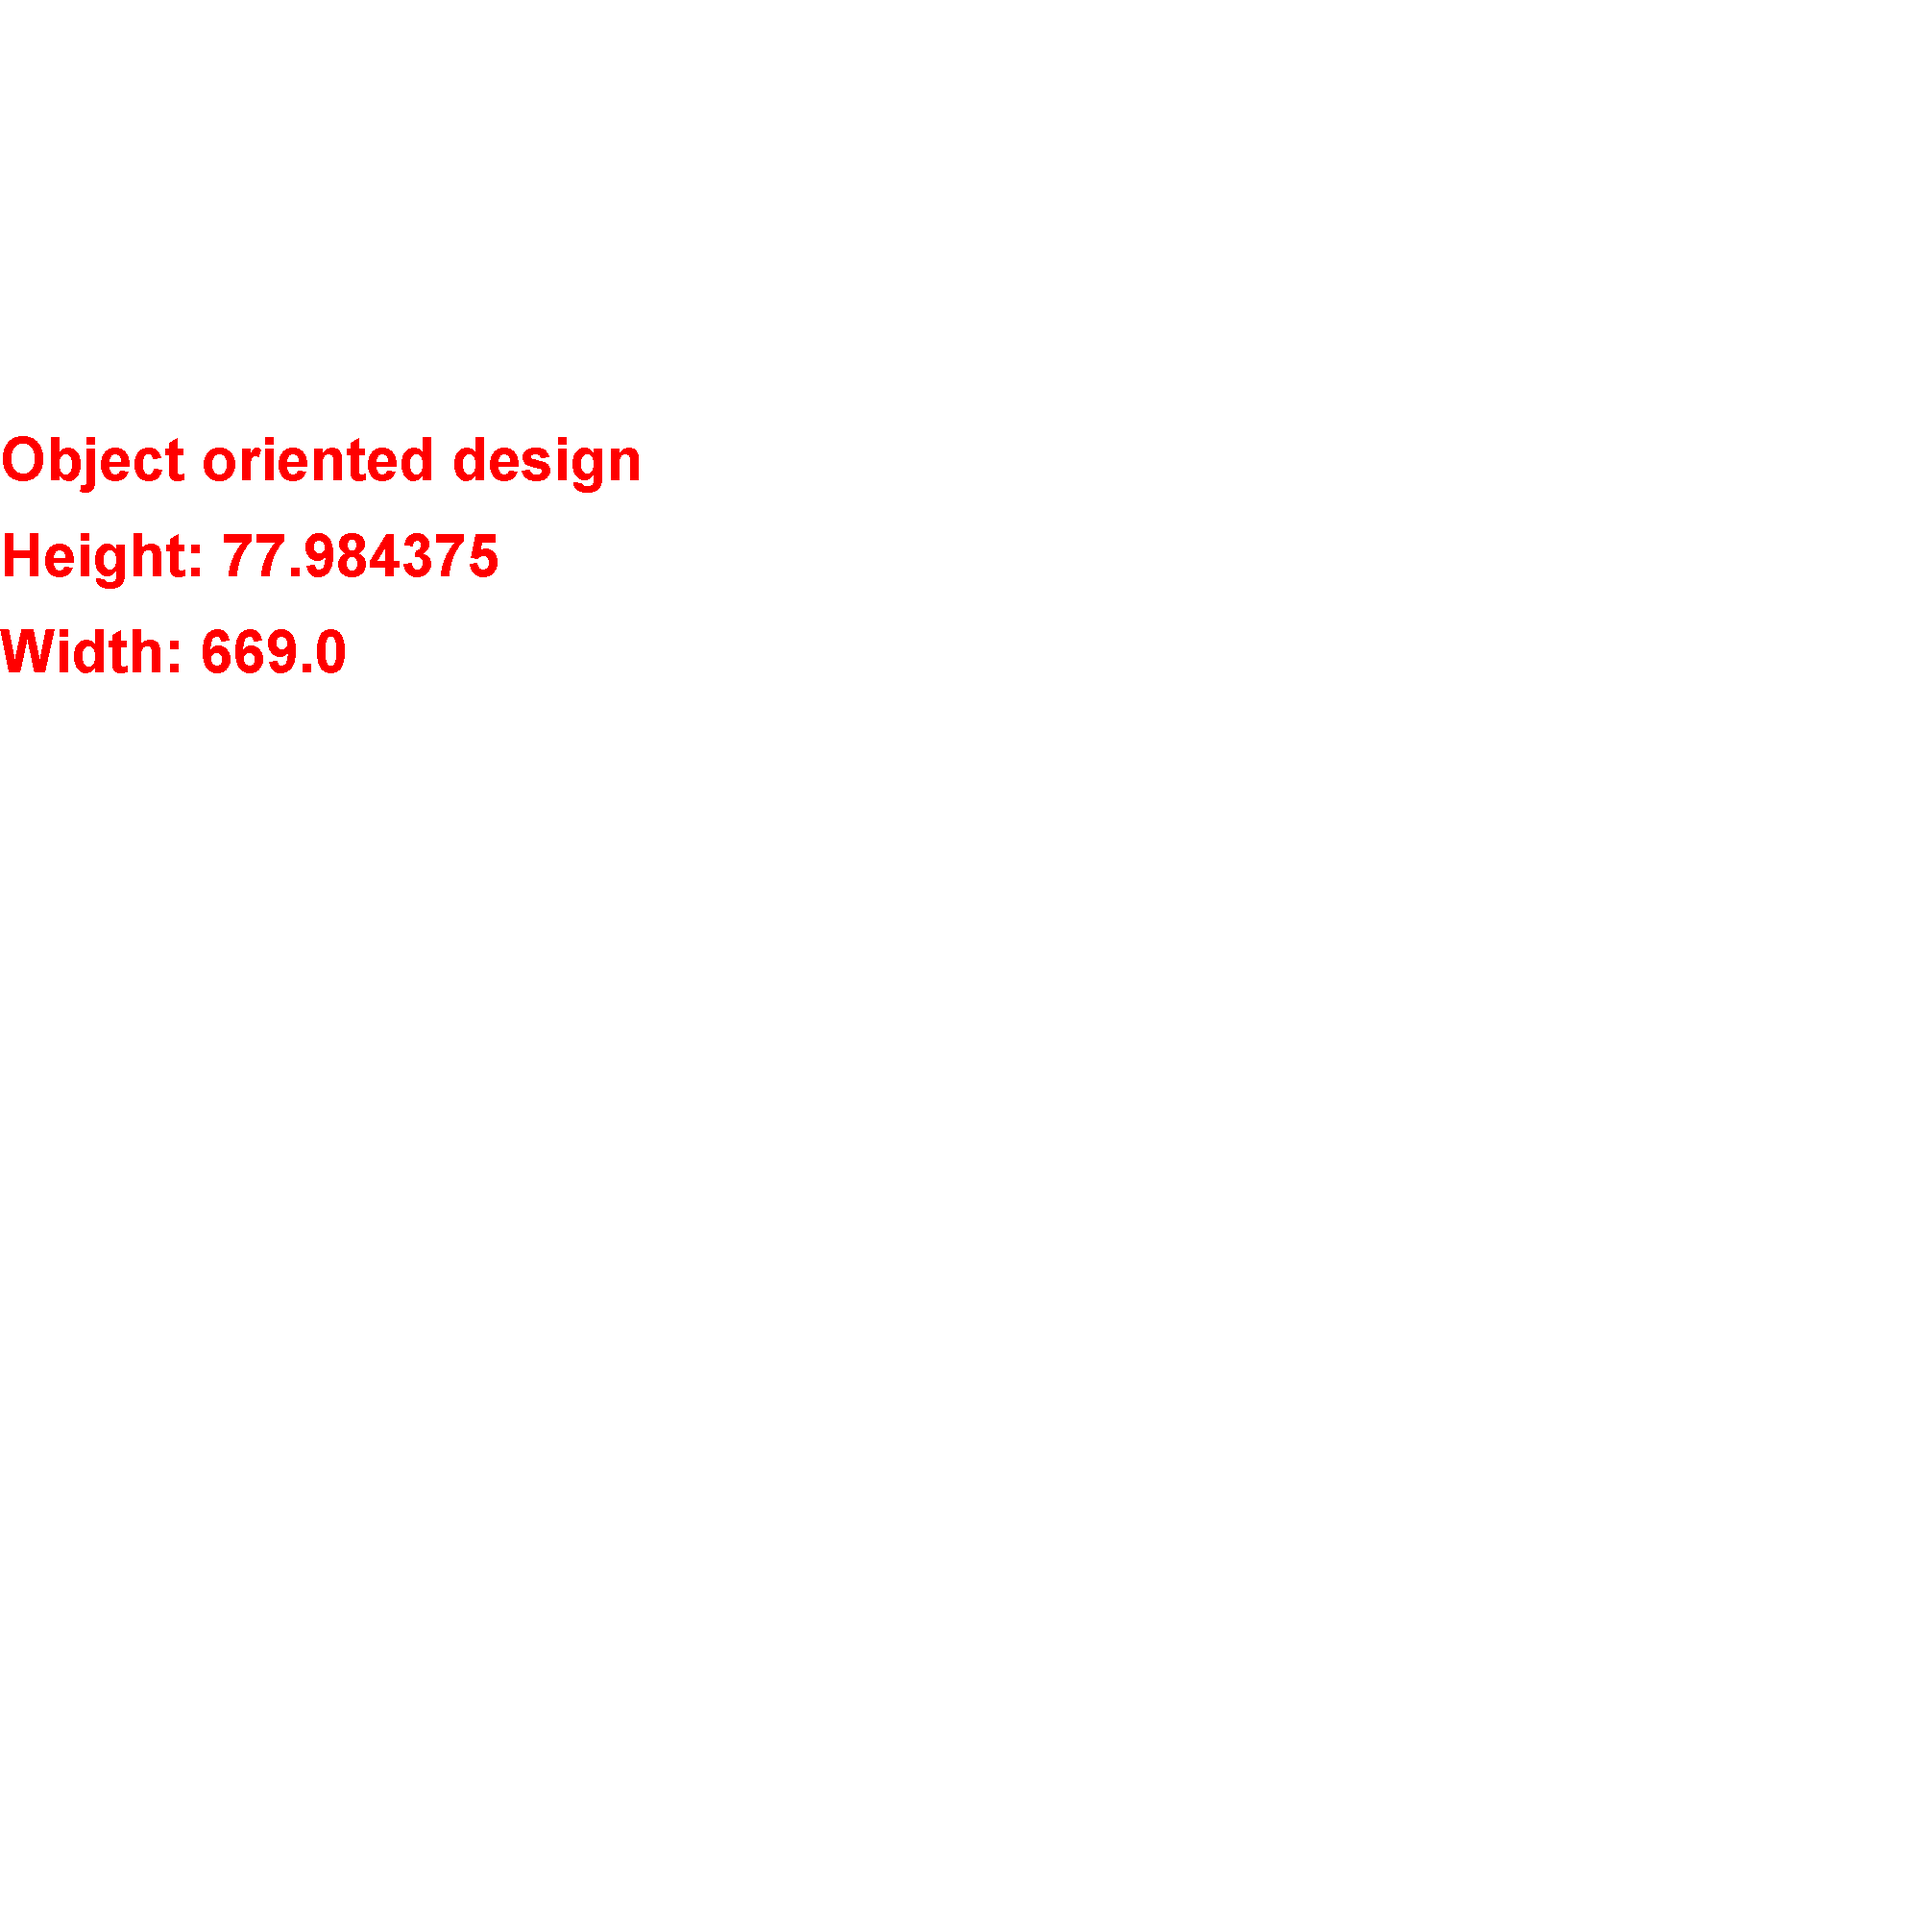
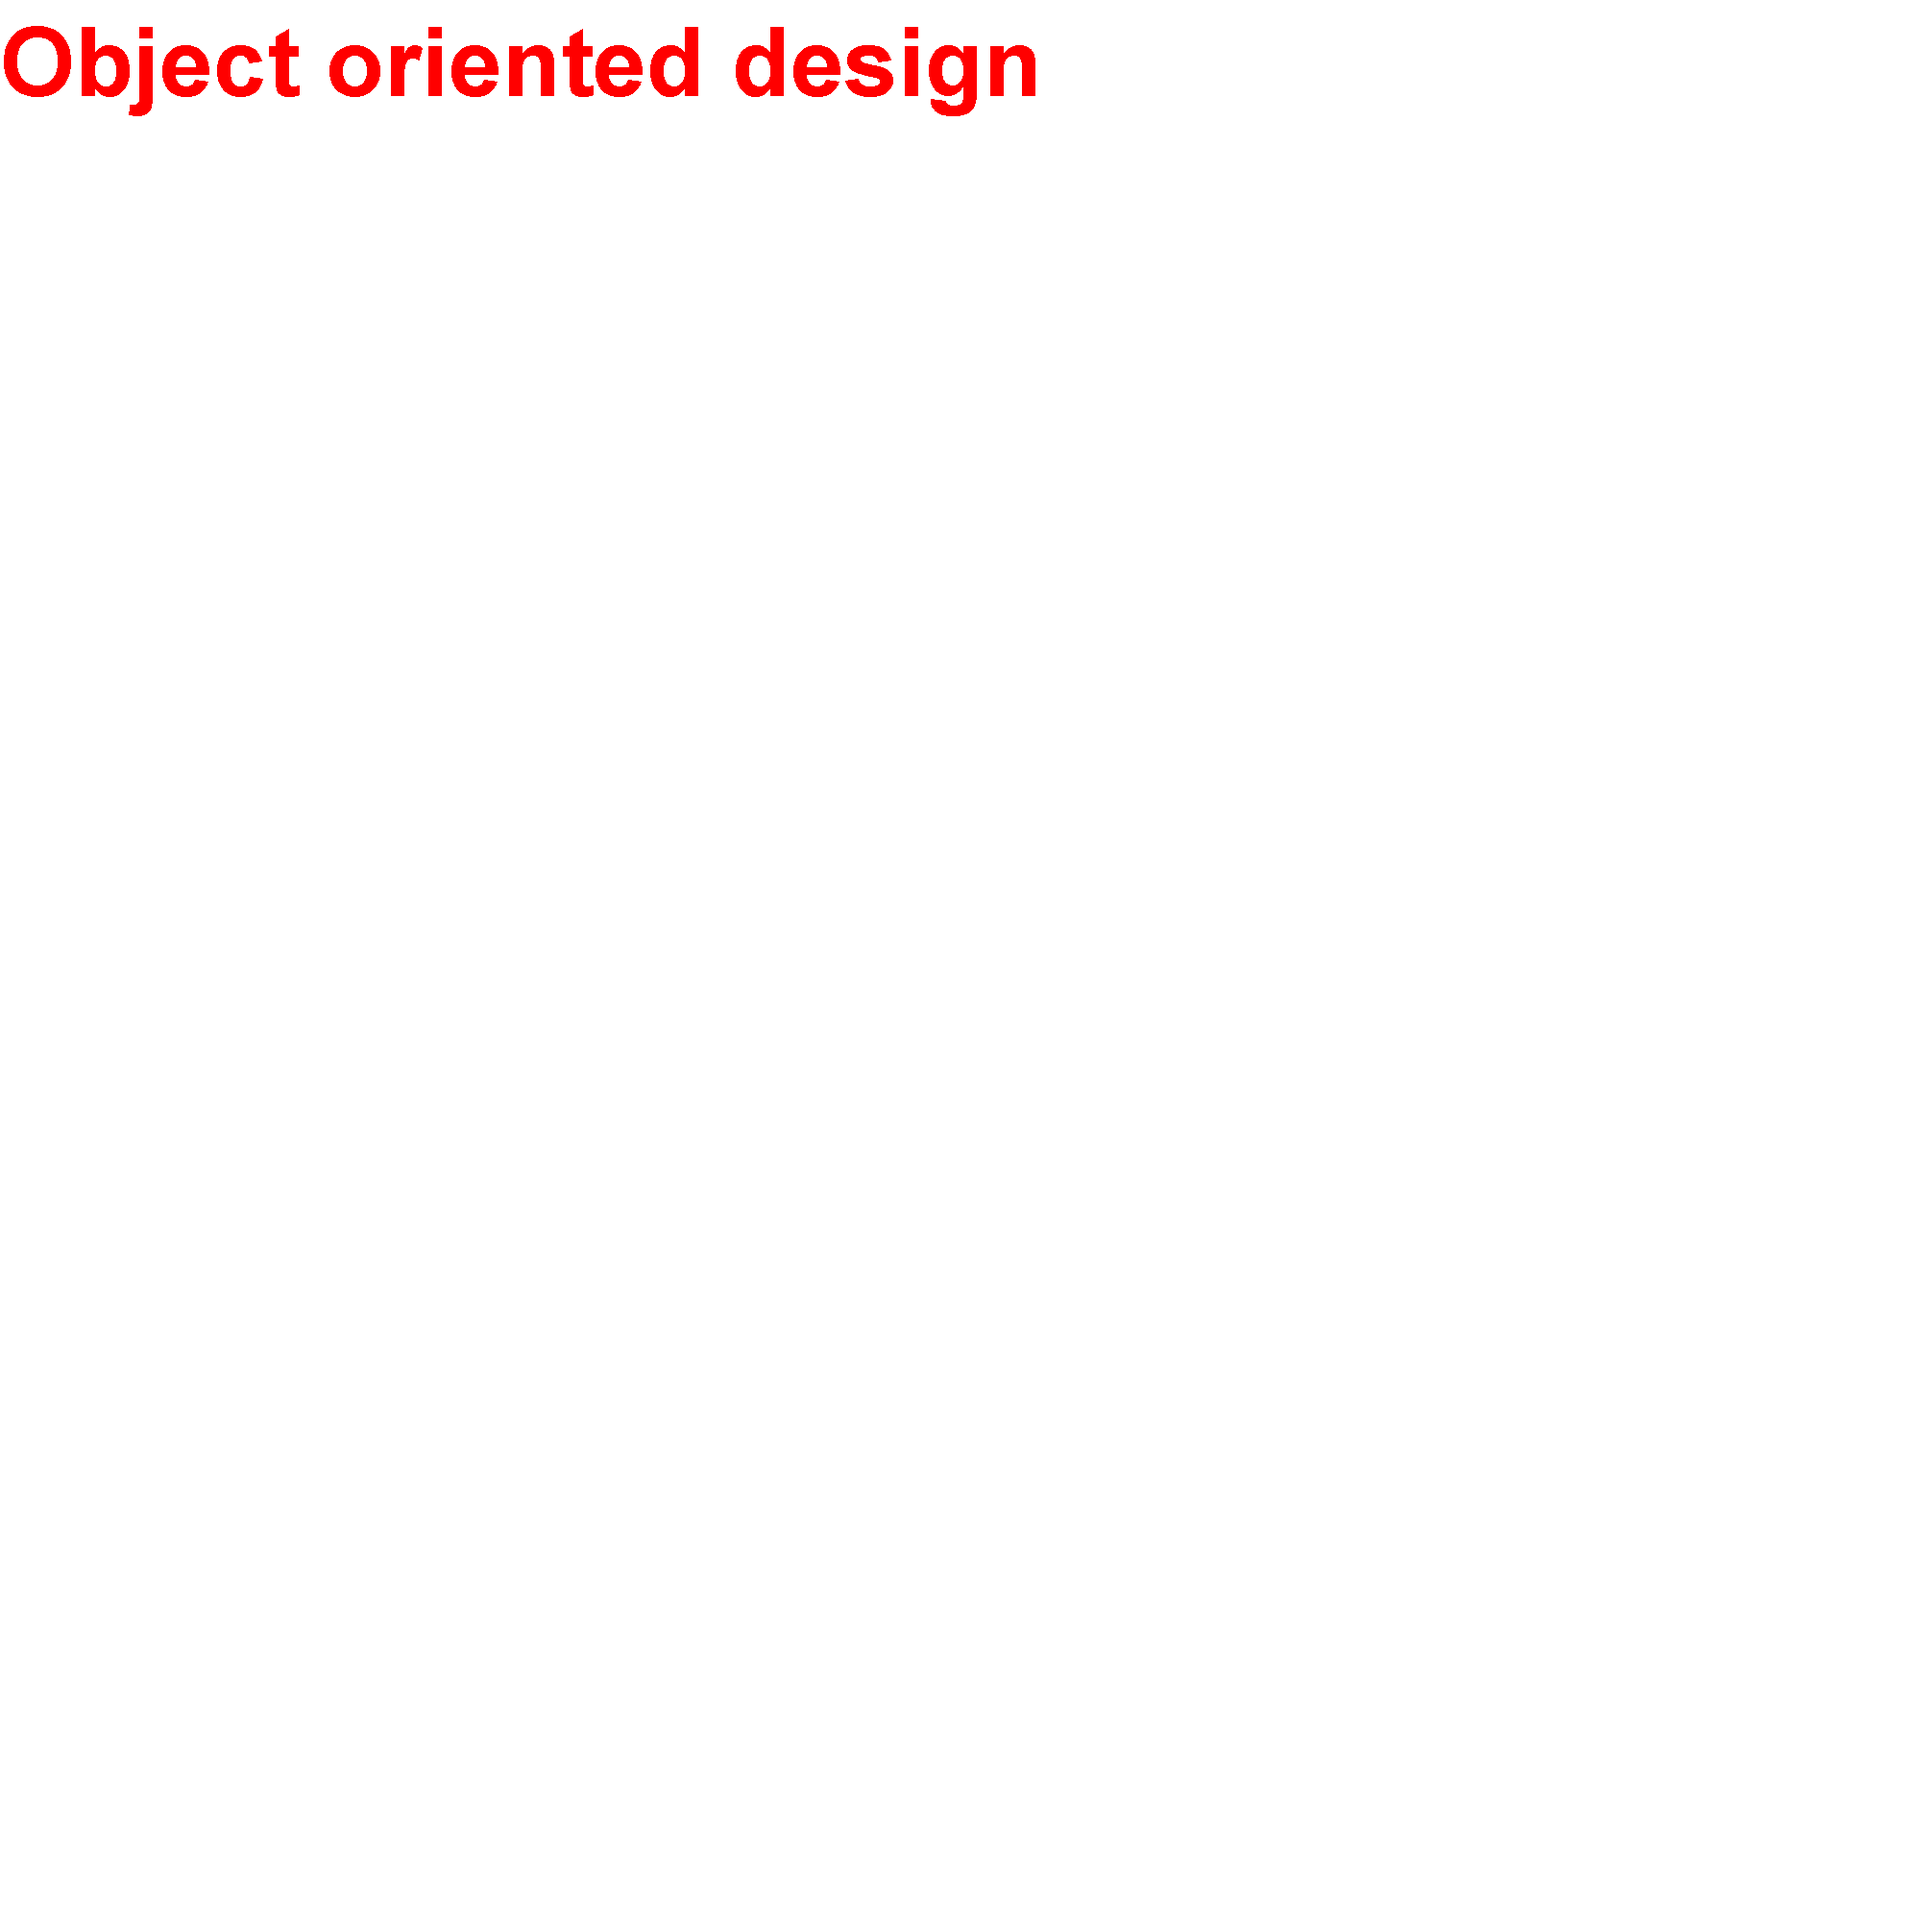
Added code for determining size of cloud - not working. Reverting to previous commit (branching it) to determine how the size of the string is analysed.

Changed region(s): [[0.0, 0.0, 0.558, 0.062], [0.0, 0.279, 0.279, 0.372], [0.0, 0.217, 0.341, 0.248]]

diff --git a/src/rdrury/gmit/wordcloud/ImageGenerator.java b/src/rdrury/gmit/wordcloud/ImageGenerator.java
@@ -8,25 +8,64 @@ import java.awt.geom.Rectangle2D;
 import java.awt.image.BufferedImage;
 import java.io.File;
 import java.io.IOException;
+import java.io.ObjectInputStream.GetField;
+import java.util.Iterator;
+import java.util.LinkedList;
+import java.util.List;
 
 import javax.imageio.ImageIO;
 
 public class ImageGenerator {
 	
 	WordCollector wordCollector;
+	BufferedImage disposableImage;
 	
 	public ImageGenerator(WordCollector wordCollector)
 	{
 		this.wordCollector = wordCollector;
 	}
 	
-	public void generateImage(int numberOfWords)
+	public void generateImage(int numberOfWords, int maxFontSize)
 	{
-		//int longestString = 0;
-		//int 
+		disposableImage = new BufferedImage(1, 1, BufferedImage.TYPE_4BYTE_ABGR);
+		Graphics graphics = disposableImage.getGraphics();
+		FontMetrics currentFontMetrics;
+		Font currentFont;
+		Rectangle2D currentWordRec;
+		int wordMapWidth = 0;
+		int currentWordFontSize = 0;
+		int wordMapHeight = 0;
+		int wordCounter = 0;
+		Word currentWord;
 		
-		Font font = new Font(Font.SANS_SERIF, Font.BOLD, 62);
+		Iterator<Word> iterator = getWords().iterator();
+		
+		while (iterator.hasNext() && wordCounter < numberOfWords)
+		{
+			currentWord = iterator.next();
+			currentWordFontSize = determineFontSize(currentWord, maxFontSize);
+			currentFont = new Font(Font.SANS_SERIF, Font.BOLD, currentWordFontSize);
+			currentFontMetrics = graphics.getFontMetrics(currentFont);
+			currentWordRec = currentFontMetrics.getStringBounds(currentWord.getWord(), graphics);
+			
+			wordMapHeight += currentWordRec.getHeight();
+			System.out.println("||| New wordMapHeight: " + wordMapHeight);
+			
+			if (wordMapWidth < currentWordRec.getWidth())
+			{
+				wordMapWidth = (int) currentWordRec.getWidth();
+				System.out.println("||| New wordMapWidth: " + wordMapWidth);
+			}
+			
+			wordCounter++;
+		}
+		
+		/*
+		//Font font = new Font(Font.SANS_SERIF, Font.BOLD, 62);
+		Font font = new Font(Font.SANS_SERIF, Font.BOLD, 100);
 		BufferedImage image = new BufferedImage(2000, 2000, BufferedImage.TYPE_4BYTE_ABGR);
+		//BufferedImage image = new BufferedImage(1, 1, BufferedImage.TYPE_4BYTE_ABGR);
+		
 		Graphics graphics = image.getGraphics();
 		
 		FontMetrics fm = graphics.getFontMetrics(font);
@@ -37,11 +76,14 @@ public class ImageGenerator {
 		graphics.setColor(Color.red);
 		graphics.setFont(font);
 		
-		int y = 500;
 		
-		graphics.drawString("Object oriented design", 0, y);
-		graphics.drawString("Height: " + r.getHeight(), 0, y+100);
-		graphics.drawString("Width: " + r.getWidth(), 0, y+200);
+		graphics.drawString("Object oriented design", 0, 100);
+		*/
+		//int y = 500;
+		
+		//graphics.drawString("Object oriented design", 0, y);
+		//graphics.drawString("Height: " + r.getHeight(), 0, y+100);
+		//graphics.drawString("Width: " + r.getWidth(), 0, y+200);
 		
 		/*
 		for (Word w : wordCollector.getFoundWords())
@@ -50,12 +92,30 @@ public class ImageGenerator {
 			y+=100;
 		}
 		*/
-		graphics.dispose();
+		
+		//graphics.dispose();
+		/*
 		try {
 			ImageIO.write(image, "png", new File("image.png"));
 		} catch (IOException e) {
 			// TODO Auto-generated catch block
 			e.printStackTrace();
 		}
+		*/
+	}
+	
+	private int determineFontSize(Word currentWord, int maxFontSize)
+	{
+		//disposableImage
+		if ((currentWord.getFrequency() * 10) > maxFontSize)
+			return maxFontSize;
+		
+		else
+			return currentWord.getFrequency() * 10;
+	}
+
+	public List<Word> getWords()
+	{
+		return wordCollector.getFoundWords();
 	}
 }

diff --git a/src/rdrury/gmit/wordcloud/TestRunner.java b/src/rdrury/gmit/wordcloud/TestRunner.java
@@ -31,7 +31,7 @@ public class TestRunner {
 		
 		ImageGenerator ig = new ImageGenerator(wcfu);
 		//ImageGenerator ig = new ImageGenerator(wcff);
-		ig.generateImage(5);
+		ig.generateImage(5, 100);
 		
 		/*
 		// Print the words and their frequency
